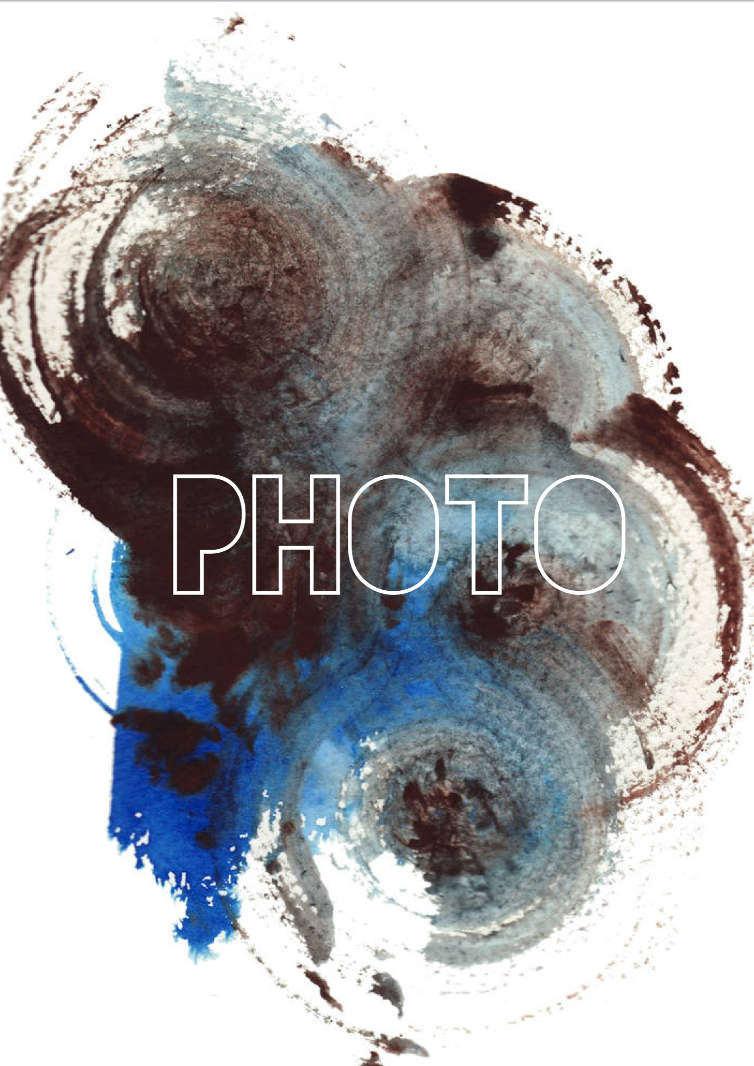
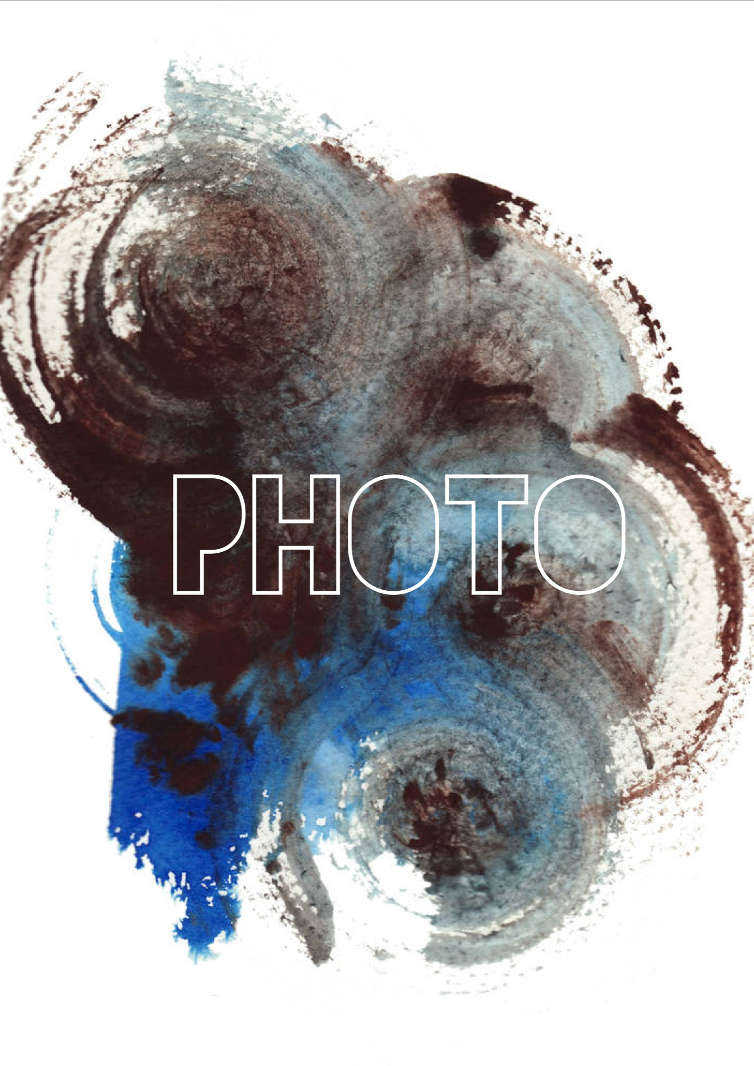
graphic motives changed

diff --git a/concerts.html b/concerts.html
@@ -4,7 +4,7 @@ permalink: /concerts/index.html
 title: Concerts
 description: "An archive of concerts sorted by date."
 image:
-  feature: kolague.jpg
+  feature: concerts background.jpg
 ---
 
 <ul class="post-list">

diff --git a/articles.html b/articles.html
@@ -4,7 +4,7 @@ permalink: /articles/index.html
 title: News
 description: "An archive of posts sorted by date."
 image:
-  feature: blue splash light.jpg
+  feature: blue splash.jpg
 ---
 
 <ul class="post-list">

diff --git a/about.md b/about.md
@@ -18,14 +18,14 @@ From her early age she was associated with Culture Center in her family town, be
 * November 2008, she won the third prize during International Jazz Krokus Festival in Jelenia Góra and Bautzen with RKBZ Quartet.
 * March, 2009 she got the first prize in Nardis Jazz Vocal Competition in Istambul, and was chosen to represent Turkey in jazz festival outside the country.
 * June, 2009 she took part in Lady Summertime Competition in Finland, inviting 18 singers from 16 countries, and as one of the youngest competitors she got to finals and won the third prize.
-* September, 2009 she got the second prize in International Jazz Competition for Singing Musicians “Voicingers” Żory, and performed on the festival organized by Polish Jazz Associationl “ Ci, Na Których Liczymy”
+* September, 2009 she got the second prize in International Jazz Competition for Singing Musicians “Voicingers” Żory, and performed on the festival organized by Polish Jazz Association “ Ci, Na Których Liczymy”
 
 <p align="justify">
 In 2011 Ania Rybacka was awarded with artistic scholarship by Polish Ministry of Culture and National Heritage, and in 2012 by Danish Karen and Arthur Feldthusen Foundation For Young Singers And Pianists.
 
 Last couple of years she got an opportunity to work and study with such inspiring musicians as Pete Lockett, Gretchen Parlato, Bob Gulotti, Kasper Tranberg, Jakob Bro, Anders Mogensen, Kresten Osgood, Richard Anderson, Wojciech Majewski, and Grażyna Auguścik among others.
 
-Recently she’s been recording an EP with her band Blueberry, a debut album with Sphere, and composing for many other projects.</p>
+Recently she’s been recording an EP with her band Blueberry, a debut album with Sphere, and has been composing for many other projects.</p>
 
 
 

diff --git a/media.md b/media.md
@@ -2,13 +2,11 @@
 layout: noHeaderPage
 permalink: /media/index.html
 description: "Music, photos, videos"
-title: Media
 tags: [media]
 image:
-  feature: so-simple-sample-image-2.jpg
+  feature: media background blue.jpg
 ---
 
-***
 
 <figure class="third">
     <a href="{{ site.url }}/music"><img src="{{ site.url }}/images/media paint music.jpg" alt="Music"></a>
